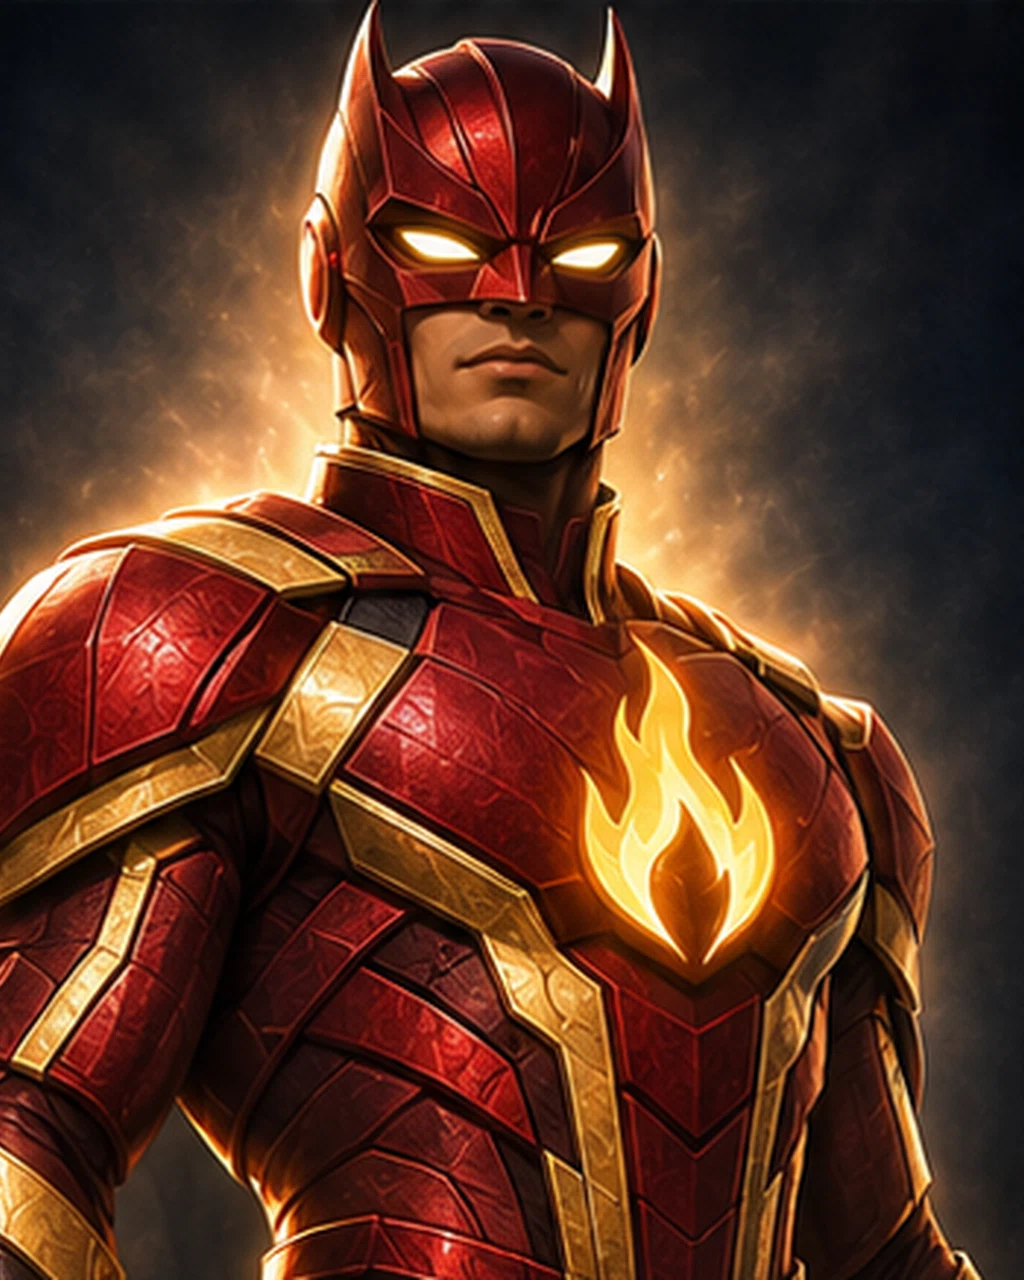
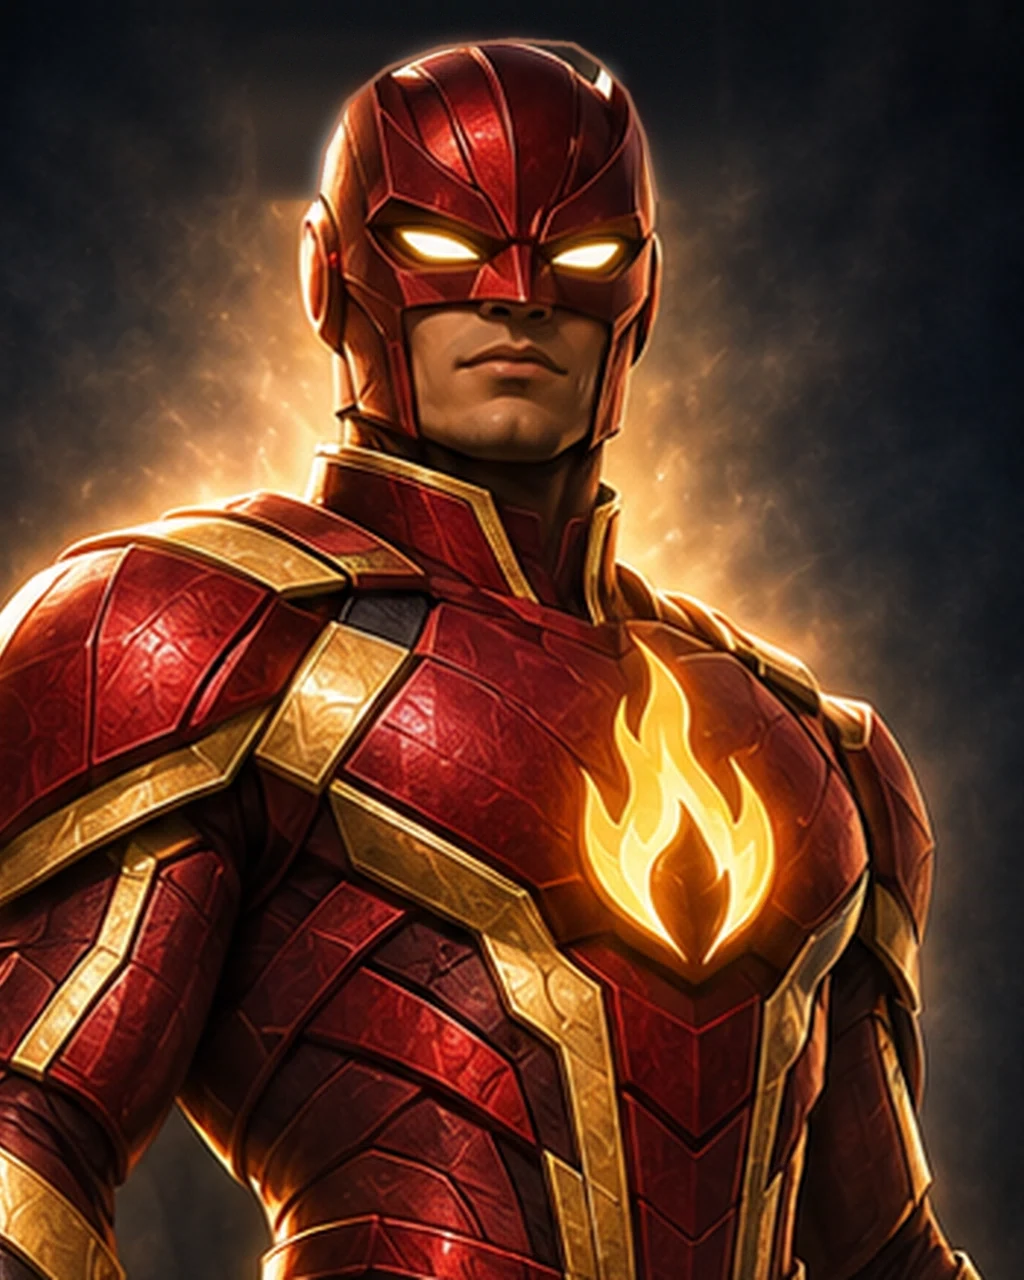
Kisten-Sound (Rumpeln, Klack, Whoosh, Fanfare je Seltenheit); Fledermaus-Ohren aus drei Heldenbildern entfernt
Claude-Session: https://claude.ai/code/session_012qiEtfv2BE8D4rTct4WHtV

Changed region(s): [[0.25, 0.0, 0.6562, 0.1562]]

diff --git a/js/sfx.js b/js/sfx.js
@@ -25,6 +25,20 @@ function tone(freq, dur, type = 'sine', vol = 0.12, to = null, delay = 0) {
   o.start(t); o.stop(t + dur + 0.02);
 }
 
+// Rauschen (für Rumpeln/Whoosh), gefiltert
+function noise(dur, freq, to, vol = 0.1, delay = 0, q = 1) {
+  if (sfxState.muted) return;
+  const c = ac();
+  if (!c) return;
+  const t = c.currentTime + delay, n = Math.floor(c.sampleRate * dur), buf = c.createBuffer(1, n, c.sampleRate), d = buf.getChannelData(0);
+  for (let i = 0; i < n; i++) d[i] = Math.random() * 2 - 1;
+  const s = c.createBufferSource(), f = c.createBiquadFilter(), g = c.createGain();
+  s.buffer = buf; f.type = 'bandpass'; f.Q.value = q;
+  f.frequency.setValueAtTime(freq, t); if (to) f.frequency.exponentialRampToValueAtTime(to, t + dur);
+  g.gain.setValueAtTime(vol, t); g.gain.exponentialRampToValueAtTime(0.0001, t + dur);
+  s.connect(f); f.connect(g); g.connect(c.destination); s.start(t); s.stop(t + dur + 0.02);
+}
+
 export const sfx = {
   tap() { tone(520, 0.05, 'sine', 0.05); },
   hit() { tone(200, 0.14, 'square', 0.09, 80); tone(700, 0.18, 'triangle', 0.12, 1100, 0.04); },
@@ -33,5 +47,14 @@ export const sfx = {
   power() { [523, 659, 784, 1047, 1319].forEach((f, i) => tone(f, 0.16, 'triangle', 0.12, null, i * 0.06)); },
   blitz() { tone(1200, 0.08, 'square', 0.05); },
   win() { [523, 659, 784, 1047].forEach((f, i) => tone(f, 0.22, 'triangle', 0.13, null, i * 0.11)); tone(1047, 0.5, 'sine', 0.1, null, 0.5); },
+  // Kiste: Rumpeln beim Schütteln, Klack + Whoosh beim Deckel, Fanfare je nach Seltenheit
+  shake() { [0, 0.5, 1.0].forEach((d) => { noise(0.35, 140, 90, 0.35, d, 0.8); tone(70, 0.4, 'sawtooth', 0.07, 55, d); }); tone(300, 1.1, 'sine', 0.03, 1100); },
+  lid() { tone(150, 0.08, 'square', 0.12, 60); noise(0.5, 600, 5000, 0.18, 0.02, 0.7); },
+  reveal(rarity) {
+    const notes = { common: [523, 659], rare: [523, 659, 784], epic: [523, 659, 784, 1047], legendary: [523, 659, 784, 1047, 1319, 1568] }[rarity] || [523, 659];
+    notes.forEach((f, i) => tone(f, 0.28, 'triangle', 0.13, null, i * 0.08));
+    tone(notes[notes.length - 1], 0.7, 'sine', 0.1, null, notes.length * 0.08);
+    if (rarity === 'epic' || rarity === 'legendary') noise(0.9, 3000, 800, 0.12, 0, 0.5);
+  },
   open() { tone(300, 0.4, 'sawtooth', 0.06, 900); tone(900, 0.3, 'triangle', 0.1, 1500, 0.35); },
 };

diff --git a/js/app.js b/js/app.js
@@ -514,8 +514,9 @@ document.addEventListener('click', (e) => {
     case 'open': {
       const R = ui.result;
       if (R.opening) return;
-      R.opening = true; sfx.tap();
-      setTimeout(() => { if (ui.result === R) { R.opened = true; sfx.open(); render(); } }, 1700);
+      R.opening = true; sfx.shake();
+      setTimeout(() => { if (ui.result === R) sfx.lid(); }, 1100);
+      setTimeout(() => { if (ui.result === R) { R.opened = true; sfx.reveal(R.card.rarity); render(); } }, 1700);
       break;
     }
     case 'done': {

diff --git a/sw.js b/sw.js
@@ -1,5 +1,5 @@
 // Offline-First App-Shell. Bei Änderungen an Dateien VERSION erhöhen.
-const VERSION = 'lernhelden-v17';
+const VERSION = 'lernhelden-v19';
 const SHELL = ['./', 'index.html', 'manifest.webmanifest', 'css/app.css', 'js/app.js', 'js/data.js', 'js/store.js', 'js/hero.js', 'js/story.js', 'js/sfx.js',
   'icons/icon-192.png', 'icons/icon-512.png', 'icons/apple-touch-icon.png',
   'assets/heroes/agentbabel.webp', 'assets/heroes/captainvocab.webp', 'assets/heroes/globeglider.webp',

diff --git a/docs/ROADMAP.md b/docs/ROADMAP.md
@@ -8,7 +8,7 @@ Karten-Packs, Sammlung, Ligen, Klassenarbeits-Projekte inkl. Boss, lokale Profil
 - [x] Design: Hero Academy (Superhelden-Look) statt Kosmos/Squishys, siehe docs/DESIGN.md
 - [x] 24 Helden, eigener Held mit Rang, Sidekick, Boss-Missionen mit Lebensleiste, Vorlesen, Spotify-Link
 - [x] Realistische Helden-Bilder: alle 24 Helden + 3 Bosse als WebP eingebaut (1024×1280, aus ChatGPT-Collagen hochskaliert; für Druck/Detail einzeln neu generieren)
-- [ ] **Rechtlich prüfen/ersetzen:** Helden mit spitzen „Fledermaus-Ohren“ (minusninja, wortwaechter, wordwarrior, nullpunkt, maerchenmeister, lingolord) wirken wie Batman → mit neuem Prompt (Kamm statt Ohren, siehe docs/HELDEN-PROMPTS.md) neu erzeugen, bevor die Seite öffentlich wird; ggf. auch tintenfalke (blau/rot/Stern) prüfen
+- [~] **Rechtlich:** Fledermaus-Ohren bei minusninja, wortwaechter, wordwarrior per Bildbearbeitung entfernt (runde Helme). Noch prüfen/ersetzen vor Veröffentlichung: nullpunkt und lingolord (Kopfform/Maske weiter sehr Batman-nah, siehe docs/HELDEN-PROMPTS.md), tintenfalke (blau/rot/Stern ≈ Captain America)
 - [ ] Helden ausbauen: 40+, Kostüm-Upgrades, Heldenkraft je Fach als Werte, Foil/Animation beim Öffnen der Kiste, Sound-Effekte
 - [ ] KI-Sidekick (optional): Erklärungen/Tipps per Sprache. Braucht API → Kosten & Datenschutz (Kind!) vorher klären; erst Eltern-Entscheidung
 - [x] Story-Kampagne (js/story.js), Kampf-Arena, Combo/Superkraft/Blitz-Aufgabe, ECHO-Notruf, Sounds (abschaltbar), Brief-Mission, Heldenfoto lokal
